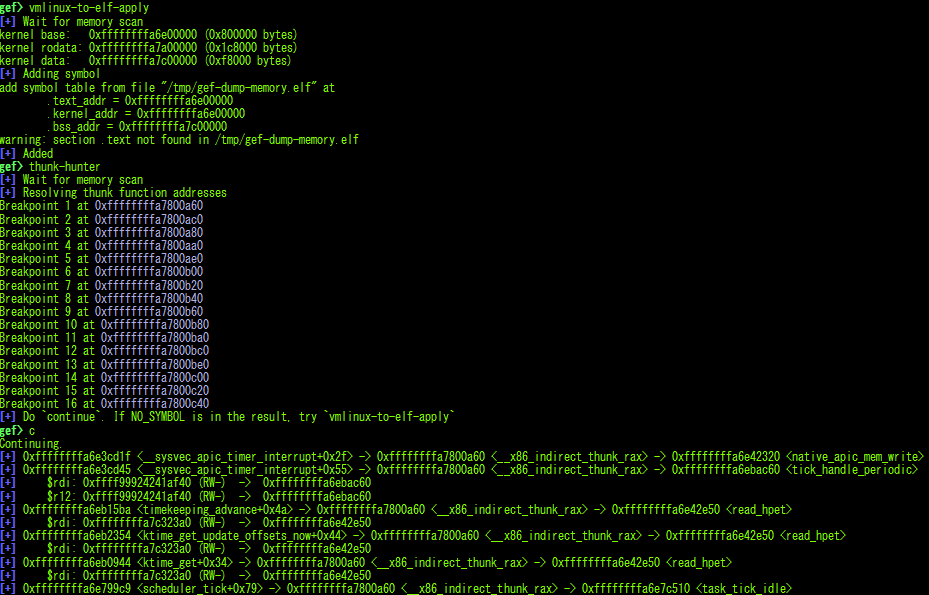
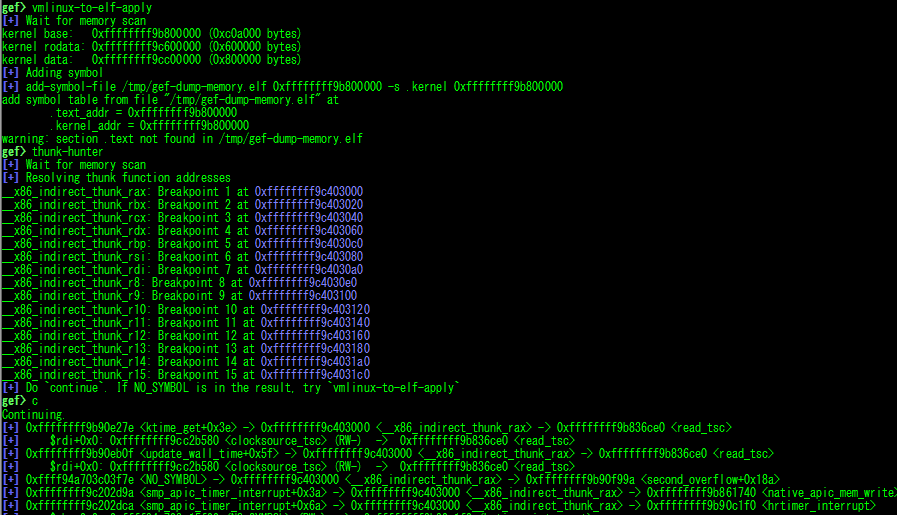
fix thunk-hunter

Changed region(s): [[0.0, 0.0, 1.0, 1.0]]

diff --git a/gef.py b/gef.py
@@ -37973,7 +37973,7 @@ class ThunkBreakpoint(gdb.Breakpoint):
         for m in self.maps:
             addr, size, perm = m
             if addr <= target < addr + size:
-                return perm
+                return perm.lower()
         return "?"
 
     def stop(self):
@@ -37997,21 +37997,32 @@ class ThunkBreakpoint(gdb.Breakpoint):
         target_symbol = get_symbol_string(target_address, nosymbol_string=" <NO_SYMBOL>")
 
         # print information
-        fmt = "{:#x}{:s} -> {:#x} <{:s}> -> {:#x}{:s}"
-        info(fmt.format(caller_address, caller_symbol, self.loc, self.sym, target_address, target_symbol))
+        if caller_address is None:
+            fmt = "{:s}{:s} -> {:#x} <{:s}> -> {:#x}{:s}"
+            msg = fmt.format("???(unknown)", caller_symbol, self.loc, self.sym, target_address, target_symbol)
+        else:
+            fmt = "{:#x}{:s} -> {:#x} <{:s}> -> {:#x}{:s}"
+            msg = fmt.format(caller_address, caller_symbol, self.loc, self.sym, target_address, target_symbol)
+        info(msg)
+
         # print preferred register condition
+        pattern = [0] + [(x + 1) * y for x, y in itertools.product(range(0x100), [1, -1])] # [0, 1, -1, 2, -2, ...]
         for reg in current_arch.gpr_registers:
             reg_value = get_register(reg)
-            try:
-                mem_value = read_int_from_memory(reg_value)
-            except Exception:
-                continue
-            if mem_value == target_address:
-                perm = self.search_perm(reg_value)
-                reg_value_symbol = get_symbol_string(reg_value, nosymbol_string=" <NO_SYMBOL>")
-                mem_value_symbol = get_symbol_string(mem_value, nosymbol_string=" <NO_SYMBOL>")
-                fmt = "    {:s}: {:#x}{:s} ({:s})  ->  {:#x}{:s}"
-                info(fmt.format(reg, reg_value, reg_value_symbol, perm, mem_value, mem_value_symbol))
+            for i in pattern:
+                slide = current_arch.ptrsize * i
+                reg_value_slided = reg_value + slide
+                try:
+                    mem_value = read_int_from_memory(reg_value_slided)
+                except Exception:
+                    continue
+                if mem_value == target_address:
+                    perm = self.search_perm(reg_value_slided)
+                    reg_value_slided_symbol = get_symbol_string(reg_value_slided, nosymbol_string=" <NO_SYMBOL>")
+                    mem_value_symbol = get_symbol_string(mem_value, nosymbol_string=" <NO_SYMBOL>")
+                    fmt = "    {:s}{:+#x}: {:#x}{:s} [{:s}]  ->  {:#x}{:s}"
+                    info(fmt.format(reg, slide, reg_value_slided, reg_value_slided_symbol, perm, mem_value, mem_value_symbol))
+                    break
         return False # continue
 
 
@@ -38033,10 +38044,13 @@ class ThunkHunterCommand(GenericCommand):
         maps = KernelbaseCommand.get_maps() # [vaddr, size, perm]
         info("Resolving thunk function addresses")
         for reg in current_arch.gpr_registers:
+            if reg in ["$esp", "$rsp", "$eip", "$rip"]:
+                continue
             sym = "__x86_indirect_thunk_{}".format(reg.replace("$", ""))
             addr = get_ksymaddr(sym)
             if addr is None:
                 continue
+            gef_print(sym + ": ", end="")
             ThunkBreakpoint(addr, sym, reg, maps)
         info("Do `continue`. If NO_SYMBOL is in the result, try `vmlinux-to-elf-apply`")
         return
